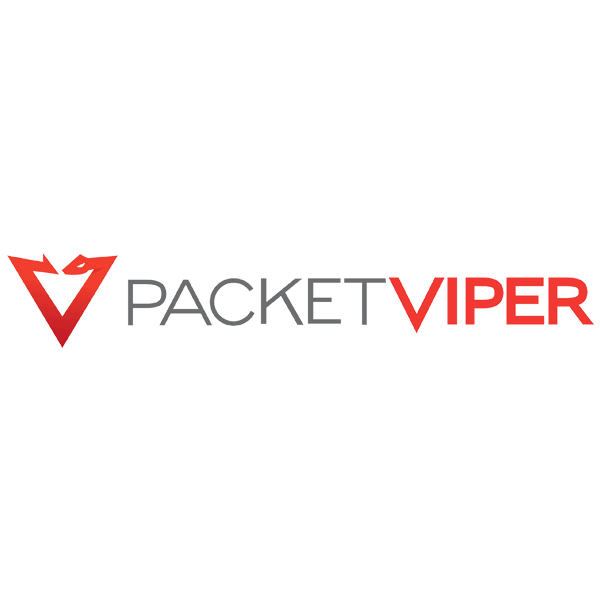
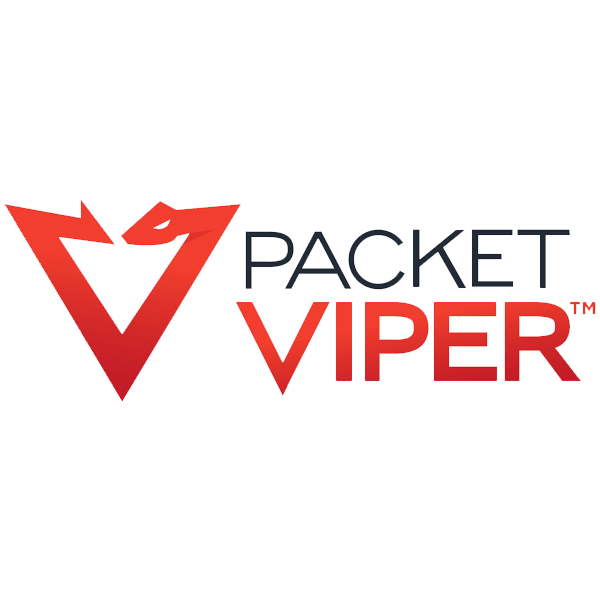
Adding sponsors, adding sponsors-list to home page

Changed region(s): [[0.0, 0.33, 1.0, 0.66]]

diff --git a/lib/html/sponsors-list.html b/lib/html/sponsors-list.html
@@ -1,8 +1,16 @@
 
+<h3>Diamond Sponsors</h3>
+<div class="clearfix">
+    <div class="one-fourth first"><a href="https://www.packetviper.com/" target="_blank" class="sponsor"><img src="{themedir}/images/sponsors/sponsors.packetviper.600x600.png" alt="PacketViper : Advanced Perimeter Defense"/></a></div>
+</div>
+<hr />
 <h3>Gold Sponsors</h3>
 <div class="clearfix">
     <div class="one-fourth first">
         <a href="https://www.cyberark.com/" target="_blank" class="sponsor"><img src="{themedir}/images/sponsors/sponsors.cyberark.600x600.png" alt="CyberArk | Security for the Heart of the Enterprise"/></a>
+    </div>
+    <div class="one-fourth">
+        <a href="https://www.microfocus.com/" target="_blank" class="sponsor"><img src="{themedir}/images/sponsors/sponsors.microfocus.600x600.png" alt="Build, Operate, &amp; Secure Enterprise Software | Micro Focus"/></a>
     </div>
     <div class="one-fourth">
         <a href="https://www.sophos.com/" target="_blank" class="sponsor"><img src="{themedir}/images/sponsors/sponsors.sophos.600x600.png" alt="Sophos - Security Made Simply for Business"/></a>

diff --git a/lib/less/_09.01_front-page-sections.less b/lib/less/_09.01_front-page-sections.less
@@ -169,9 +169,18 @@
 #front-page-2{
 	color: @edgelightgray;
 
+	hr{
+		border-color: darken(@edgegreen,25%) !important;
+	}
+
 	.solid-section{
 		background-color: @edgeblue;
 	}
+
+	a.sponsor{
+		background-color: rgba(red(@edgelightgray),green(@edgelightgray),blue(@edgelightgray),85%);
+	}
+
 	.two-thirds,
 	.two-thirds h3{
 		text-align: left;

diff --git a/lib/html/sponsors.html b/lib/html/sponsors.html
@@ -18,6 +18,7 @@
         </div>
     </div>
 </div>
+[htmlinc html="sponsors-list"]
 <div class="alert alert-edge2017">
     <div class="clearfix">
         <div class="one-half first">
